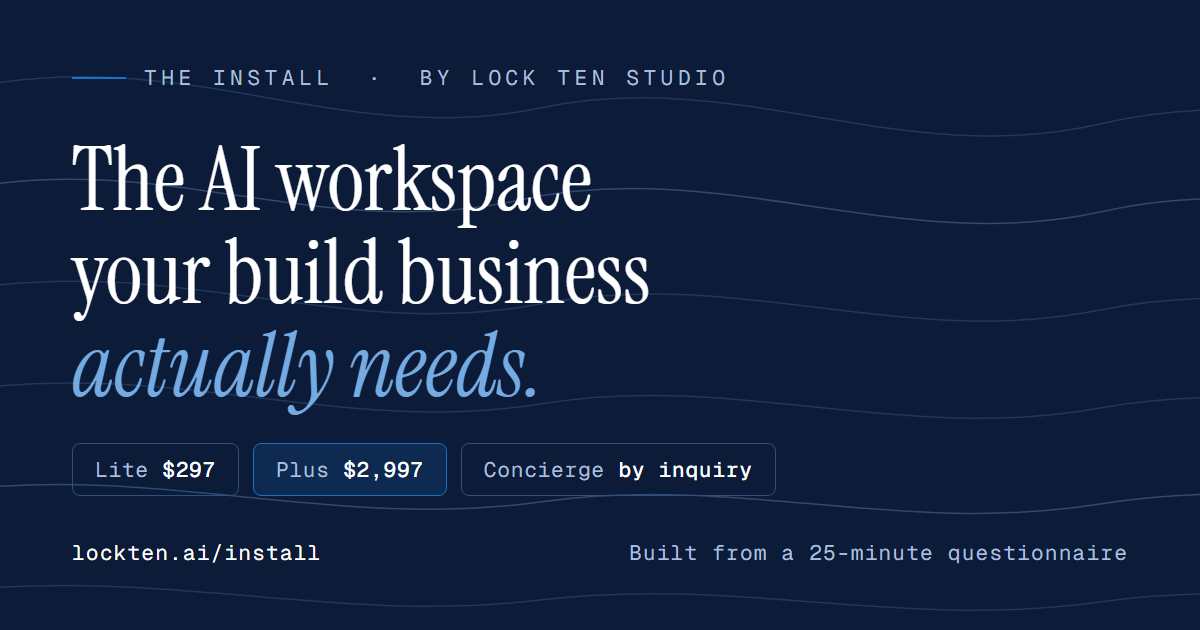
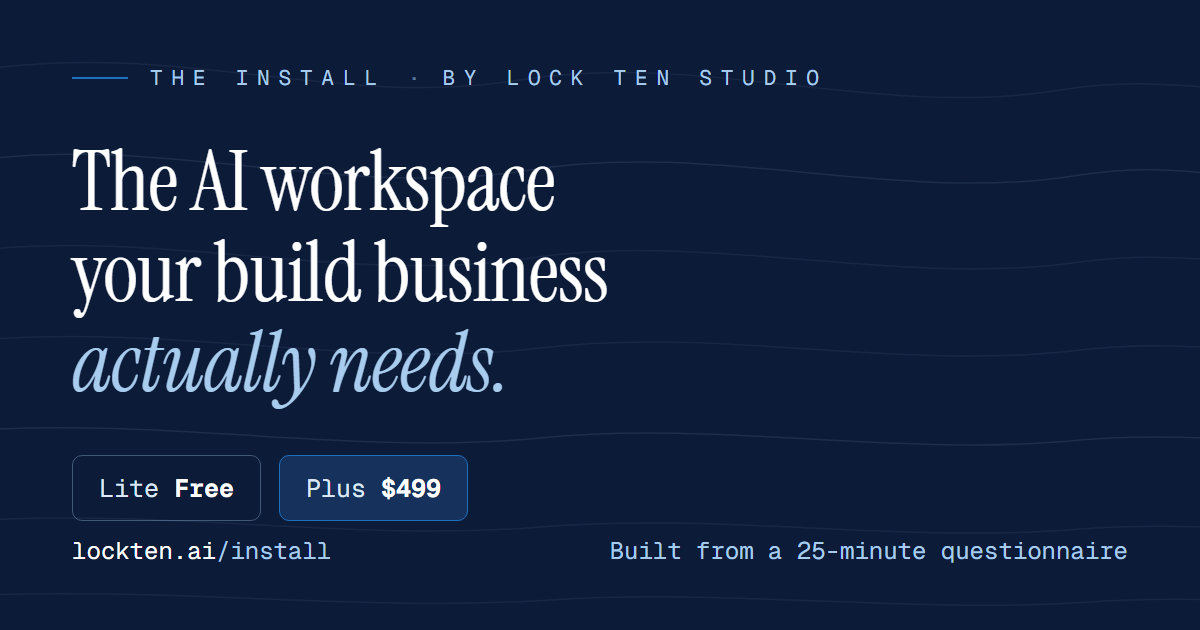
Reposition The Install: Lite free, Plus $499, Concierge and Recurring retired
Two tiers replace three plus the subscription. Lite becomes a free
email-gated download, Plus drops to $499 one-time, Concierge comes off
the site entirely (inbound email only, unadvertised) and the Recurring
layer is retired. Static-product framing: no ongoing-skills promises.
FAQ and its FAQPage JSON-LD regenerated together; og share card
re-rendered with the new tiers; index card, llms.txt, primer mention
and terms refunds updated to match.

diff --git a/install.html b/install.html
@@ -7,24 +7,26 @@
   (styles.css) and the same head/header/footer as walkthrough.html so it matches the site.
 
   CTA targets:
-    - Plus      -> POST https://install.lockten.ai/intake/start
-                   (the route only accepts POST; it creates the intake session and
-                   303-redirects into Stripe Checkout. A plain link 405s, so the
-                   Plus CTAs are form buttons, not anchors.)
-    - Lite      -> https://install.lockten.ai/buy-lite (normal link)
-    - Concierge -> mailto:josh@lockten.ai
-  Stripe live cutover on the intake app is DONE and verified (onramp-intake commit
-  2038a0c, 2026-07-04). Checkout charges real cards.
+    - Plus -> POST https://install.lockten.ai/intake/start
+              (the route only accepts POST; it creates the intake session and
+              303-redirects into Stripe Checkout. A plain link 405s, so the
+              Plus CTAs are form buttons, not anchors.)
+    - Lite -> https://install.lockten.ai/buy-lite (normal link; FREE, email-gated
+              download, no Stripe)
+
+  Repositioned 2026-08-10 (Josh's call): Lite is free, Plus is $499, Concierge is
+  OFF the site entirely (inbound email only, unadvertised), Recurring is retired.
+  Static product: no ongoing-skills or new-content promises anywhere on this page.
 -->
 <html lang="en">
 <head>
 <meta charset="UTF-8">
 <meta name="viewport" content="width=device-width, initial-scale=1.0">
 <title>The Install | AI workspace for builder businesses</title>
-<meta name="description" content="The Install builds a complete AI-workspace rollout for your specific build business: your team, projects, voice, files, and customized skills. Built from a 25-minute questionnaire, ready for your team to install. Lite $297, Plus $2,997, Concierge by inquiry. By Lock Ten Studio.">
+<meta name="description" content="The Install builds a complete AI-workspace rollout for your specific build business: your team, projects, voice, files, and customized skills. Built from a 25-minute questionnaire, ready for your team to install. Lite is free; Plus, built for you, is $499. By Lock Ten Studio.">
 
 <meta property="og:title" content="The Install by Lock Ten Studio">
-<meta property="og:description" content="A complete, customized AI-workspace rollout for your build business, built and ready to install. Three tiers from $297.">
+<meta property="og:description" content="A complete, customized AI-workspace rollout for your build business, built and ready to install. Lite is free; the built-for-you package is $499.">
 <meta property="og:type" content="website">
 <meta property="og:url" content="https://lockten.ai/install">
 <meta property="og:image" content="https://lockten.ai/assets/og/og-install.png">
@@ -121,12 +123,11 @@ form.buy-form .btn { cursor: pointer; -webkit-appearance: none; appearance: none
 
 /* Three tiers */
 .in-tiers { display: grid; gap: 20px; margin-top: 14px; grid-template-columns: 1fr; }
-@media (min-width: 920px) { .in-tiers { grid-template-columns: 1fr 1.06fr 1fr; gap: 24px; align-items: start; } }
+@media (min-width: 920px) { .in-tiers { grid-template-columns: 1fr 1.06fr; gap: 24px; align-items: start; max-width: 880px; margin-left: auto; margin-right: auto; } }
 .in-tier { position: relative; display: flex; flex-direction: column; border: 1px solid var(--line); border-radius: var(--radius-lg); background: var(--white); overflow: hidden; box-shadow: var(--shadow-1); }
 .in-tier-bar { height: 6px; width: 100%; }
 .in-tier.lite .in-tier-bar { background: var(--slate-300); }
 .in-tier.hero .in-tier-bar { background: var(--brand); }
-.in-tier.concierge .in-tier-bar { background: var(--deep-900); }
 .in-tier-body { display: flex; flex-direction: column; flex: 1; padding: 30px 28px 30px; }
 .in-tier-name { font-family: var(--font-mono); font-size: 0.78rem; letter-spacing: 0.2em; text-transform: uppercase; color: var(--fg-3); }
 .in-tier.hero .in-tier-name { color: var(--brand); }
@@ -157,14 +158,6 @@ form.buy-form .btn { cursor: pointer; -webkit-appearance: none; appearance: none
 .in-step h3 { font-family: var(--font-sans); font-weight: 600; font-size: 1.22rem; color: var(--fg); margin: 12px 0 8px; letter-spacing: -0.01em; }
 .in-step p { font-size: 0.97rem; color: var(--fg-2); line-height: 1.6; margin: 0; }
 .in-steps-note { text-align: center; max-width: 620px; margin: 26px auto 0; color: var(--fg-3); font-size: 0.96rem; line-height: 1.6; }
-
-/* Recurring: quiet add-on card */
-.in-recurring { max-width: 560px; margin: 8px auto 0; border: 1px solid var(--line); border-radius: var(--radius-lg); background: var(--bg-subtle); padding: 30px 30px 32px; text-align: center; }
-.in-recurring .rname { font-family: var(--font-mono); font-size: 0.78rem; letter-spacing: 0.14em; text-transform: uppercase; color: var(--fg-2); }
-.in-recurring .rname strong { color: var(--brand); }
-.in-recurring ul { list-style: none; padding: 0; margin: 18px 0 0; }
-.in-recurring li { font-size: 0.95rem; color: var(--fg-2); padding: 5px 0; line-height: 1.5; }
-.in-recurring .rfine { font-size: 0.85rem; color: var(--fg-3); margin-top: 14px; }
 
 /* Trust: three short statements */
 .in-trust3 { display: grid; gap: 28px; margin-top: 8px; grid-template-columns: 1fr; }
@@ -204,10 +197,18 @@ form.buy-form .btn { cursor: pointer; -webkit-appearance: none; appearance: none
     },
     {
       "@type": "Question",
+      "name": "Why is Lite free?",
+      "acceptedAnswer": {
+        "@type": "Answer",
+        "text": "Because the fastest way to get builders working with AI properly is to hand over the starting structure. The Install comes from inside the industry, and the free tier is our contribution to it. Plus is there if you want yours built for you."
+      }
+    },
+    {
+      "@type": "Question",
       "name": "What if I'm not technical?",
       "acceptedAnswer": {
         "@type": "Answer",
-        "text": "Plus and Concierge don't require you to be technical. The 25-minute questionnaire is in plain English. You answer questions about your business. We do the AI part. You and your team use the result."
+        "text": "Plus doesn't require you to be technical. The 25-minute questionnaire is in plain English. You answer questions about your business. We do the AI part. You and your team use the result."
       }
     },
     {
@@ -215,7 +216,7 @@ form.buy-form .btn { cursor: pointer; -webkit-appearance: none; appearance: none
       "name": "How long until I can use it?",
       "acceptedAnswer": {
         "@type": "Answer",
-        "text": "Lite: as long as it takes you to follow the guide, usually a focused weekend. Plus: five business days from when you submit the questionnaire. Concierge: typically two to three weeks, depending on the scoping conversation."
+        "text": "Lite: as long as it takes you to follow the guide, usually a focused weekend. Plus: five business days from when you submit the questionnaire."
       }
     },
     {
@@ -223,7 +224,7 @@ form.buy-form .btn { cursor: pointer; -webkit-appearance: none; appearance: none
       "name": "What if it doesn't work for my business?",
       "acceptedAnswer": {
         "@type": "Answer",
-        "text": "Lite has a 7-day refund. Plus has a 30-day satisfaction guarantee. Concierge has a scoping conversation before you commit. If something's wrong, you reply to the welcome email; a real person reads it and we make it right."
+        "text": "Lite is free, so there's nothing to lose by trying it. Plus has a 30-day satisfaction guarantee. If something's wrong, you reply to the welcome email; a real person reads it and we make it right."
       }
     },
     {
@@ -239,7 +240,7 @@ form.buy-form .btn { cursor: pointer; -webkit-appearance: none; appearance: none
       "name": "Can I upgrade from Lite to Plus later?",
       "acceptedAnswer": {
         "@type": "Answer",
-        "text": "Yes. The $297 you paid for Lite applies as a credit toward Plus. Email info@lockten.ai and we'll set it up."
+        "text": "Yes. Start with the free package, and if you decide you want the built-for-you version, Plus is $499 whenever you're ready. It's the same workspace structure, so nothing you've set up is wasted."
       }
     },
     {
@@ -255,7 +256,7 @@ form.buy-form .btn { cursor: pointer; -webkit-appearance: none; appearance: none
       "name": "Can I see what the configured workspace looks like first?",
       "acceptedAnswer": {
         "@type": "Answer",
-        "text": "Email info@lockten.ai with the subject \"Walkthrough call\" and we'll set up a 15-minute look before you commit to Plus or Concierge."
+        "text": "Email info@lockten.ai with the subject \"Walkthrough call\" and we'll set up a 15-minute look before you commit to Plus."
       }
     },
     {
@@ -263,7 +264,7 @@ form.buy-form .btn { cursor: pointer; -webkit-appearance: none; appearance: none
       "name": "Why isn't this a monthly subscription?",
       "acceptedAnswer": {
         "@type": "Answer",
-        "text": "Because the Install is configuration work, not an ongoing platform. You buy the configuration once, you own it forever. The Recurring tier ($19/month) is the separate, optional layer that keeps you current with new skills and capabilities as Claude evolves."
+        "text": "Because the Install is configuration work, not an ongoing platform. You get the configuration once, you own it forever, and there's nothing to cancel."
       }
     }
   ]
@@ -306,14 +307,14 @@ form.buy-form .btn { cursor: pointer; -webkit-appearance: none; appearance: none
       <div class="in-hero-copy">
         <p class="label label-center" style="color:var(--blueprint-300);">The Install</p>
         <h1 class="hero-headline">The AI workspace your build business <em>actually needs.</em></h1>
-        <p class="hero-subhead">Built for your specific business from a 25-minute questionnaire. The complete rollout, ready for your team to put in place in a weekend. Three tiers, depending on how much you want built for you.</p>
+        <p class="hero-subhead">Built for your specific business from a 25-minute questionnaire. The complete rollout, ready for your team to put in place in a weekend. Start free and do it yourself, or have it built for you for $499.</p>
         <div class="hero-actions">
           <form class="buy-form" method="POST" action="https://install.lockten.ai/intake/start">
-            <button type="submit" class="btn btn-primary">Start with Plus, $2,997
+            <button type="submit" class="btn btn-primary">Start with Plus, $499
               <svg viewBox="0 0 24 24" fill="none" stroke="currentColor" stroke-width="2.5" stroke-linecap="round" stroke-linejoin="round" aria-hidden="true"><path d="m9 18 6-6-6-6"/></svg>
             </button>
           </form>
-          <a href="https://install.lockten.ai/buy-lite" class="btn btn-ghost-dark">Or start with Lite, $297
+          <a href="https://install.lockten.ai/buy-lite" class="btn btn-ghost-dark">Or get Lite, free
             <svg viewBox="0 0 24 24" fill="none" stroke="currentColor" stroke-width="2.5" stroke-linecap="round" stroke-linejoin="round" aria-hidden="true"><path d="m9 18 6-6-6-6"/></svg>
           </a>
         </div>
@@ -471,7 +472,7 @@ form.buy-form .btn { cursor: pointer; -webkit-appearance: none; appearance: none
           <div class="in-tier-bar"></div>
           <div class="in-tier-body">
             <p class="in-tier-name">Lite</p>
-            <p class="in-tier-price">$297 <span class="unit">one-time</span></p>
+            <p class="in-tier-price">Free <span class="unit">no card, just your email</span></p>
             <p class="in-tier-tag">The DIY package.</p>
             <p class="in-tier-sub">For builders who want the framework and the templates and prefer to install it themselves.</p>
             <ul class="in-incl">
@@ -479,14 +480,14 @@ form.buy-form .btn { cursor: pointer; -webkit-appearance: none; appearance: none
               <li><svg viewBox="0 0 24 24" fill="none" stroke="currentColor" stroke-width="2.2" stroke-linecap="round" stroke-linejoin="round"><path d="M20 6 9 17l-5-5"/></svg>Templates for the five context layers</li>
               <li><svg viewBox="0 0 24 24" fill="none" stroke="currentColor" stroke-width="2.2" stroke-linecap="round" stroke-linejoin="round"><path d="M20 6 9 17l-5-5"/></svg>A standing-instructions library you customize</li>
               <li><svg viewBox="0 0 24 24" fill="none" stroke="currentColor" stroke-width="2.2" stroke-linecap="round" stroke-linejoin="round"><path d="M20 6 9 17l-5-5"/></svg>Five deployable starter skills</li>
-              <li><svg viewBox="0 0 24 24" fill="none" stroke="currentColor" stroke-width="2.2" stroke-linecap="round" stroke-linejoin="round"><path d="M20 6 9 17l-5-5"/></svg>Self-serve install guide, email support 30 days</li>
+              <li><svg viewBox="0 0 24 24" fill="none" stroke="currentColor" stroke-width="2.2" stroke-linecap="round" stroke-linejoin="round"><path d="M20 6 9 17l-5-5"/></svg>Self-serve install guide</li>
             </ul>
             <p class="in-bestfor-label">Best for</p>
             <ul class="in-bestfor">
               <li>Tech-comfortable builders who want the structure and a clear guide to roll it out themselves</li>
               <li>Teams that want to start small and learn the system at their own pace</li>
             </ul>
-            <a href="https://install.lockten.ai/buy-lite" class="btn btn-secondary">Buy Lite, $297</a>
+            <a href="https://install.lockten.ai/buy-lite" class="btn btn-secondary">Get Lite free</a>
           </div>
         </div>
 
@@ -496,7 +497,7 @@ form.buy-form .btn { cursor: pointer; -webkit-appearance: none; appearance: none
           <div class="in-tier-bar"></div>
           <div class="in-tier-body">
             <p class="in-tier-name">Plus</p>
-            <p class="in-tier-price">$2,997 <span class="unit">one-time</span></p>
+            <p class="in-tier-price">$499 <span class="unit">one-time</span></p>
             <p class="in-tier-tag">The built-for-you package. Customized to your specific business.</p>
             <p class="in-tier-sub">For builders ready to go from scattered, individual AI use to one cohesive structure the whole company works from.</p>
             <ul class="in-incl">
@@ -513,33 +514,10 @@ form.buy-form .btn { cursor: pointer; -webkit-appearance: none; appearance: none
               <li>Companies that want one cohesive system everyone works from, not scattered tools</li>
             </ul>
             <form class="buy-form" method="POST" action="https://install.lockten.ai/intake/start">
-              <button type="submit" class="btn btn-primary">Start with Plus, $2,997
+              <button type="submit" class="btn btn-primary">Start with Plus, $499
                 <svg viewBox="0 0 24 24" fill="none" stroke="currentColor" stroke-width="2.5" stroke-linecap="round" stroke-linejoin="round" aria-hidden="true"><path d="m9 18 6-6-6-6"/></svg>
               </button>
             </form>
-          </div>
-        </div>
-
-        <!-- CONCIERGE -->
-        <div class="in-tier concierge">
-          <div class="in-tier-bar"></div>
-          <div class="in-tier-body">
-            <p class="in-tier-name">Concierge</p>
-            <p class="in-tier-price">By inquiry <span class="unit">scoped to you</span></p>
-            <p class="in-tier-tag">Plus, with custom skills built for your biggest recurring headaches.</p>
-            <p class="in-tier-sub">For builders who want a tailored AI workspace plus a real conversation about how it should fit.</p>
-            <ul class="in-incl">
-              <li><svg viewBox="0 0 24 24" fill="none" stroke="currentColor" stroke-width="2.2" stroke-linecap="round" stroke-linejoin="round"><path d="M20 6 9 17l-5-5"/></svg>Everything in Plus, plus:</li>
-              <li><svg viewBox="0 0 24 24" fill="none" stroke="currentColor" stroke-width="2.2" stroke-linecap="round" stroke-linejoin="round"><path d="M20 6 9 17l-5-5"/></svg>A scoping conversation on your three biggest recurring workflows</li>
-              <li><svg viewBox="0 0 24 24" fill="none" stroke="currentColor" stroke-width="2.2" stroke-linecap="round" stroke-linejoin="round"><path d="M20 6 9 17l-5-5"/></svg>Three custom skills built for your workflows, not templates</li>
-              <li><svg viewBox="0 0 24 24" fill="none" stroke="currentColor" stroke-width="2.2" stroke-linecap="round" stroke-linejoin="round"><path d="M20 6 9 17l-5-5"/></svg>A live handback session walking you and your team through it</li>
-            </ul>
-            <p class="in-bestfor-label">Best for</p>
-            <ul class="in-bestfor">
-              <li>Builders with idiosyncratic workflows that templates won't fit</li>
-              <li>Operators who want to start with the highest-value version</li>
-            </ul>
-            <a href="mailto:josh@lockten.ai?subject=Concierge%20inquiry" class="btn btn-secondary">Schedule a conversation</a>
           </div>
         </div>
 
@@ -571,27 +549,7 @@ form.buy-form .btn { cursor: pointer; -webkit-appearance: none; appearance: none
           <p>You get the complete package within five business days, with a training site, slide deck, and per-person runbooks to put it in place across your team. We're on email for two weeks to help you dial it in.</p>
         </div>
       </div>
-      <p class="in-steps-note">Lite is the same workspace structure, but you fill it in yourself from a guide. Concierge is the same as Plus, plus custom skills and a live handback.</p>
-    </div>
-  </section>
-
-  <!-- RECURRING -->
-  <section class="section" id="recurring" style="padding-top:0;">
-    <div class="container">
-      <div class="section-head reveal" style="text-align:center;margin-left:auto;margin-right:auto;">
-        <p class="label label-center">After the install</p>
-        <h2 class="section-headline" style="margin-left:auto;margin-right:auto;">Stay current as Claude evolves.</h2>
-      </div>
-      <div class="in-recurring reveal">
-        <p class="rname"><strong>Recurring</strong>, $19/month or $190/year</p>
-        <ul>
-          <li>New skills dropped monthly from CJB's own ongoing AI work</li>
-          <li>Notes when Claude ships capabilities that affect builder workflows</li>
-          <li>A small private community of Install customers</li>
-          <li>Cancel anytime</li>
-        </ul>
-        <p class="rfine">Optional add-on. The first month is included with every Install.</p>
-      </div>
+      <p class="in-steps-note">Lite is the same workspace structure, but you fill it in yourself from a guide.</p>
     </div>
   </section>
 
@@ -609,7 +567,7 @@ form.buy-form .btn { cursor: pointer; -webkit-appearance: none; appearance: none
         </div>
         <div class="in-trust-col">
           <h3>A real guarantee</h3>
-          <p>Lite: 7-day refund. Plus: 30-day satisfaction guarantee. Concierge: a scoping conversation before you commit, with terms agreed in writing.</p>
+          <p>Lite is free. Plus has a 30-day satisfaction guarantee. If something's wrong, you reply to the welcome email; a real person reads it and we make it right.</p>
         </div>
         <div class="in-trust-col">
           <h3>A real builder behind it</h3>
@@ -628,14 +586,15 @@ form.buy-form .btn { cursor: pointer; -webkit-appearance: none; appearance: none
       </div>
       <div class="faq reveal">
         <details><summary>Do I need to already be using Claude Cowork?</summary><p>You need a Claude Cowork Teams account (Anthropic, $25/seat/month) for your team to log into. We can walk you through setting that up if you don't have one yet. The Install gives you the configuration to load into it; Anthropic provides the platform.</p></details>
-        <details><summary>What if I'm not technical?</summary><p>Plus and Concierge don't require you to be technical. The 25-minute questionnaire is in plain English. You answer questions about your business. We do the AI part. You and your team use the result.</p></details>
-        <details><summary>How long until I can use it?</summary><p>Lite: as long as it takes you to follow the guide, usually a focused weekend. Plus: five business days from when you submit the questionnaire. Concierge: typically two to three weeks, depending on the scoping conversation.</p></details>
-        <details><summary>What if it doesn't work for my business?</summary><p>Lite has a 7-day refund. Plus has a 30-day satisfaction guarantee. Concierge has a scoping conversation before you commit. If something's wrong, you reply to the welcome email; a real person reads it and we make it right.</p></details>
+        <details><summary>Why is Lite free?</summary><p>Because the fastest way to get builders working with AI properly is to hand over the starting structure. The Install comes from inside the industry, and the free tier is our contribution to it. Plus is there if you want yours built for you.</p></details>
+        <details><summary>What if I'm not technical?</summary><p>Plus doesn't require you to be technical. The 25-minute questionnaire is in plain English. You answer questions about your business. We do the AI part. You and your team use the result.</p></details>
+        <details><summary>How long until I can use it?</summary><p>Lite: as long as it takes you to follow the guide, usually a focused weekend. Plus: five business days from when you submit the questionnaire.</p></details>
+        <details><summary>What if it doesn't work for my business?</summary><p>Lite is free, so there's nothing to lose by trying it. Plus has a 30-day satisfaction guarantee. If something's wrong, you reply to the welcome email; a real person reads it and we make it right.</p></details>
         <details><summary>Is my business data safe?</summary><p>Cowork's paid tiers (including Teams, which The Install requires) do not train on your data. You own your workspace. We don't retain access to it after handover. Configuration data you provide in the questionnaire is encrypted at rest and deleted on request.</p></details>
-        <details><summary>Can I upgrade from Lite to Plus later?</summary><p>Yes. The $297 you paid for Lite applies as a credit toward Plus. Email info@lockten.ai and we'll set it up.</p></details>
+        <details><summary>Can I upgrade from Lite to Plus later?</summary><p>Yes. Start with the free package, and if you decide you want the built-for-you version, Plus is $499 whenever you're ready. It's the same workspace structure, so nothing you've set up is wasted.</p></details>
         <details><summary>Do my team members need separate accounts?</summary><p>Yes, but that's a Cowork Teams thing, not an Install thing. Each person gets their own Cowork seat ($25/month) and signs in with their own email. The Install provides the shared configuration they all work from.</p></details>
-        <details><summary>Can I see what the configured workspace looks like first?</summary><p>Email info@lockten.ai with the subject "Walkthrough call" and we'll set up a 15-minute look before you commit to Plus or Concierge.</p></details>
-        <details><summary>Why isn't this a monthly subscription?</summary><p>Because the Install is configuration work, not an ongoing platform. You buy the configuration once, you own it forever. The Recurring tier ($19/month) is the separate, optional layer that keeps you current with new skills and capabilities as Claude evolves.</p></details>
+        <details><summary>Can I see what the configured workspace looks like first?</summary><p>Email info@lockten.ai with the subject "Walkthrough call" and we'll set up a 15-minute look before you commit to Plus.</p></details>
+        <details><summary>Why isn't this a monthly subscription?</summary><p>Because the Install is configuration work, not an ongoing platform. You get the configuration once, you own it forever, and there's nothing to cancel.</p></details>
       </div>
     </div>
   </section>
@@ -643,15 +602,15 @@ form.buy-form .btn { cursor: pointer; -webkit-appearance: none; appearance: none
   <!-- FINAL CTA -->
   <section class="cta-band" id="start">
     <div class="container">
-      <h2>Pick your tier.</h2>
-      <p>Plus for most. Lite if you want DIY. Concierge if you want it tailored.</p>
+      <h2>Pick your path.</h2>
+      <p>Plus if you want it built for you. Lite, free, if you'd rather do it yourself.</p>
       <div class="cta-actions">
         <form class="buy-form" method="POST" action="https://install.lockten.ai/intake/start">
-          <button type="submit" class="btn btn-primary">Start with Plus, $2,997
+          <button type="submit" class="btn btn-primary">Start with Plus, $499
             <svg viewBox="0 0 24 24" fill="none" stroke="currentColor" stroke-width="2.5" stroke-linecap="round" stroke-linejoin="round" aria-hidden="true"><path d="m9 18 6-6-6-6"/></svg>
           </button>
         </form>
-        <a href="https://install.lockten.ai/buy-lite" class="btn btn-ghost-dark">Or start with Lite, $297
+        <a href="https://install.lockten.ai/buy-lite" class="btn btn-ghost-dark">Get Lite free
           <svg viewBox="0 0 24 24" fill="none" stroke="currentColor" stroke-width="2.5" stroke-linecap="round" stroke-linejoin="round" aria-hidden="true"><path d="m9 18 6-6-6-6"/></svg>
         </a>
       </div>

diff --git a/index.html b/index.html
@@ -222,11 +222,10 @@
               It's time to bring AI into your office. The Install is the blueprint: we stand up a complete AI workspace built to your team, your projects and the way you already work, from a single 25-minute questionnaire. You pick how much you want us to handle.
             </p>
             <div class="product-tiers">
-              <p class="tiers-label">Three tiers</p>
+              <p class="tiers-label">Two tiers</p>
               <ul>
-                <li><span class="t-name">Lite</span><span class="t-price">$297</span></li>
-                <li class="hero"><span class="t-name">Plus</span><span class="t-price">$2,997</span></li>
-                <li><span class="t-name">Concierge</span><span class="t-price">by inquiry</span></li>
+                <li><span class="t-name">Lite</span><span class="t-price">Free</span></li>
+                <li class="hero"><span class="t-name">Plus</span><span class="t-price">$499</span></li>
               </ul>
             </div>
             <div class="product-actions">

diff --git a/primer.html b/primer.html
@@ -249,7 +249,7 @@ figure.primer-fig { margin: 26px 0 28px; }
         <div class="primer-path">
           <p class="ptag">For the office</p>
           <h3>You want the workspace set up properly without spending months figuring it out yourself.</h3>
-          <p>Lock Ten Studio's flagship is The Install. We populate the Cowork workspace for your specific business from a short questionnaire: your team, your projects, your voice, your standard files, your skills. Lite, Plus, and Concierge tiers, depending on how much you want us to do for you.</p>
+          <p>Lock Ten Studio's flagship is The Install. We populate the Cowork workspace for your specific business from a short questionnaire: your team, your projects, your voice, your standard files, your skills. The Lite package is free; Plus, built for your specific business, is $499.</p>
           <a class="go" href="/install">See The Install &rarr;</a>
         </div>
         <div class="primer-path">

diff --git a/terms.html b/terms.html
@@ -66,9 +66,8 @@
       <p>Refund terms vary by product:</p>
       <ul>
         <li><strong>Walkthrough:</strong> first 14 days, satisfaction guarantee. Email <a href="mailto:support@lockten.ai">support@lockten.ai</a> to request.</li>
-        <li><strong>The Install Lite:</strong> 7-day refund window from delivery.</li>
+        <li><strong>The Install Lite:</strong> free; no purchase, so no refund applies.</li>
         <li><strong>The Install Plus:</strong> 30-day satisfaction guarantee from delivery.</li>
-        <li><strong>The Install Concierge:</strong> scoping conversation precedes any commitment; refund terms agreed in writing per engagement.</li>
       </ul>
 
       <h2>Intellectual property</h2>

diff --git a/CLAUDE.md b/CLAUDE.md
@@ -73,13 +73,15 @@ Price appears in SEVEN places; update ALL together: `walkthrough.html` `#pricing
 
 **Architect Walkthrough: $19.99 / month, or $199.99 / year (about $17/mo).** First three SENT reports free (drafts don't count), no credit card. Apple billing only. Shows on `architect.html` `#pricing` and in its FAQ; `architect-help.html` billing section must match.
 
+**The Install (repositioned 2026-08-10, Josh's call): TWO tiers. Lite is FREE (email-gated download, no card) and Plus is $499 one-time.** Concierge and the Recurring subscription are RETIRED: Concierge is deliberately unadvertised (inbound email only), so do not re-add it to any page. The product is positioned as static: no ongoing-skills or new-content promises anywhere in site copy. Install pricing appears in FIVE places; update ALL together: `install.html` (hero, tier cards, FAQ + its FAQPage JSON-LD, final CTA band), the Install card in `index.html`, `llms.txt`, the Install paragraph in `primer.html`, and the refunds list in `terms.html`.
+
 ## Contact-email convention
 
-Public pages use **role addresses**: `info@lockten.ai` (general), `support@lockten.ai` (Walkthrough refunds/support). `josh@lockten.ai` is reserved for where a real person must read it (e.g. The Install Concierge inquiry). Keep it that way.
+Public pages use **role addresses**: `info@lockten.ai` (general), `support@lockten.ai` (Walkthrough refunds/support). `josh@lockten.ai` is reserved for where a real person must read it (no public page uses it since the Concierge mailto was removed 2026-08-10). Keep it that way.
 
 ## The Install page
 
-`install.html` is **public** (homepage nav, hero and product card link to it since 2026-07-05). Its buy flow lives in the separate intake app at `install.lockten.ai` (repo `locktenstudio/onramp-intake`), where the **Stripe live cutover is done and verified** (onramp-intake commit 2038a0c, 2026-07-04). Checkout charges real cards.
+`install.html` is **public** (homepage nav, hero and product card link to it since 2026-07-05). Its buy flow lives in the separate intake app at `install.lockten.ai` (repo `locktenstudio/onramp-intake`). Since the 2026-08-10 repositioning: **Lite is free** (`/buy-lite` is an email-gated download, no Stripe) and **Plus is $499** through live Stripe Checkout.
 
 CTA mechanics: the Plus entry route `POST https://install.lockten.ai/intake/start` **rejects GET with a 405**, so every Plus CTA on `install.html` is a `<form method="POST">` button, never a plain `<a href>`. Lite (`/buy-lite`) is a normal page and a normal link. Keep it that way when editing CTAs.
 
